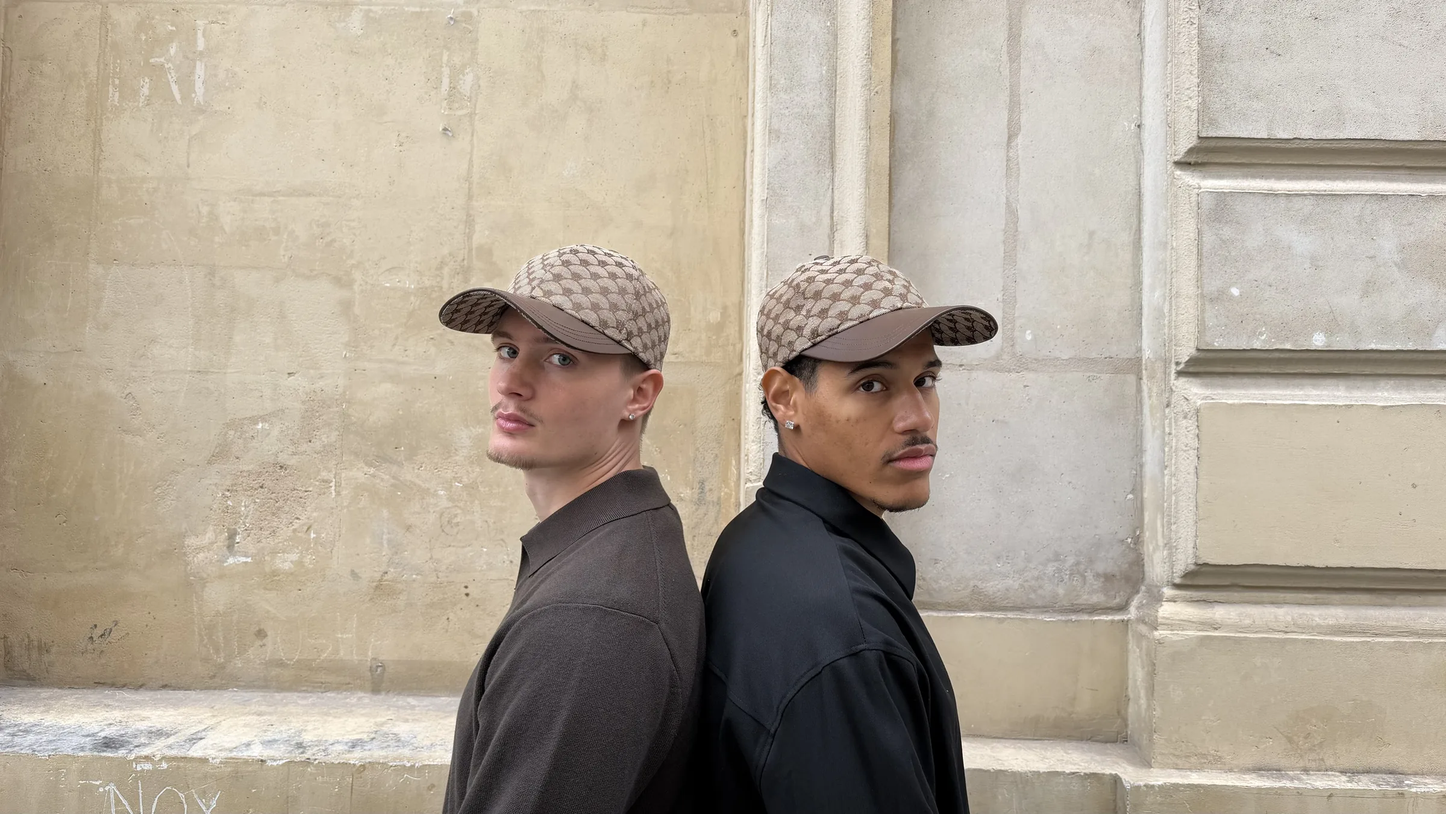
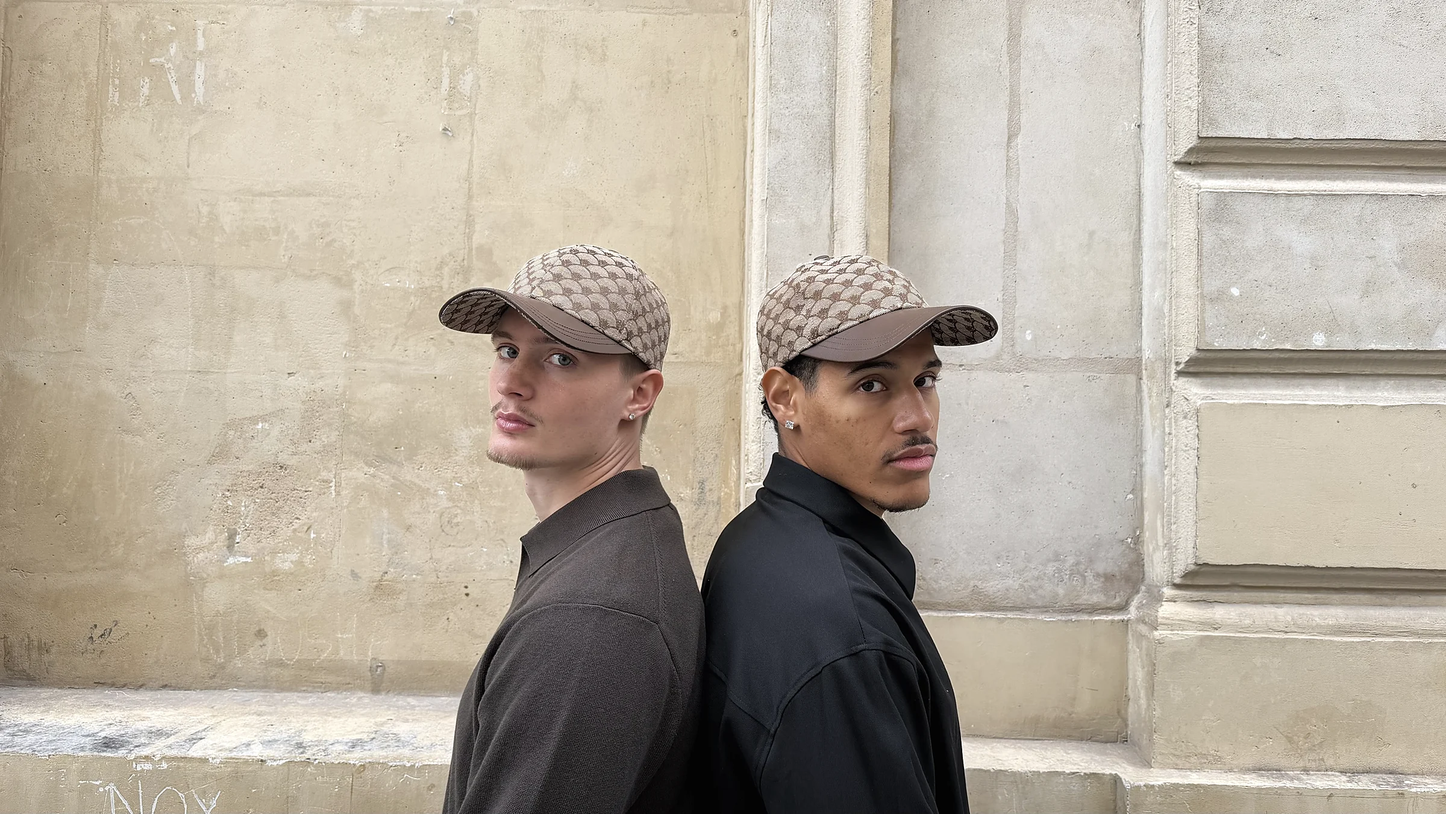
Homepage built to sell: buy buttons, sticky bar, new mobile menu
- Remove the green features ticker
- Banner gets a 'Acheter · price' button under the logo
- 'Le motif qui dure' becomes a buy box: price, stock, add to cart,
  reassurance (free shipping from 150 EUR, 14-day returns, secure payment)
- Product block comes right after the banner; story moves lower
- Mobile: sticky add-to-cart bar once the banner is out of view
- Mobile menu redesigned: serif links, featured product card,
  header stays visible with a close button
- Banner and carousel photos regraded (neutral, slightly desaturated,
  deeper blacks, crisper detail)

Claude-Session: https://claude.ai/code/session_01WXdhsVMfy8QTz9YeYXRy3E

Changed region(s): [[0.5312, 0.3109, 0.625, 0.4352], [0.375, 0.3109, 0.4375, 0.342], [0.4062, 0.3731, 0.4375, 0.4041]]

diff --git a/shopify/assets/saint.css b/shopify/assets/saint.css
@@ -105,15 +105,33 @@ nav a:hover::after,nav a.current::after{width:100%;}
 .burger span:last-child{top:23px;}
 .burger.open span:first-child{top:19px;transform:rotate(45deg);}
 .burger.open span:last-child{top:19px;transform:rotate(-45deg);}
-.mobile-nav{position:fixed;inset:0;z-index:450;background:var(--green);display:flex;flex-direction:column;justify-content:center;padding:64px;transform:translateY(-100%);transition:transform .6s cubic-bezier(.76,0,.24,1);}
-.mobile-nav.open{transform:translateY(0);}
-.mobile-nav nav ul{list-style:none;display:flex;flex-direction:column;gap:6px;}
-.mobile-nav nav a{display:block;padding:14px 0;font-family:'Jost',sans-serif;font-size:clamp(30px,9vw,44px);color:rgba(246,245,242,.7);border-bottom:1px solid rgba(246,245,242,.14);transition:color .3s;}
-.mobile-nav nav a span{display:inline-block;transition:transform .4s cubic-bezier(.16,1,.3,1);}
-.mobile-nav.open nav a span{transform:translateX(0);}
-.mobile-nav nav a:hover,.mobile-nav nav a.current{color:var(--green-text);}
-.mobile-nav nav a.current::after{content:'';display:inline-block;width:5px;height:5px;border-radius:50%;background:var(--champagne);margin-left:12px;vertical-align:middle;}
-.mobile-nav-foot{position:absolute;bottom:40px;left:64px;font-size:10px;letter-spacing:.14em;text-transform:uppercase;color:rgba(246,245,242,.4);}
+.mobile-nav{position:fixed;inset:0;z-index:45;background:var(--green);display:flex;flex-direction:column;padding:112px 28px calc(28px + env(safe-area-inset-bottom));overflow-y:auto;opacity:0;visibility:hidden;transition:opacity .45s ease,visibility 0s linear .45s;}
+.mobile-nav.open{opacity:1;visibility:visible;transition:opacity .45s ease;}
+.mnav-main ul{list-style:none;display:flex;flex-direction:column;gap:0;font-size:inherit;letter-spacing:0;text-transform:none;}
+.mnav-main a{display:flex;align-items:center;padding:14px 0;font-family:'EB Garamond',serif;font-size:36px;line-height:1.1;color:rgba(246,245,242,.62);letter-spacing:.01em;transition:color .3s;}
+.mnav-main a::after{display:none;}
+.mnav-main a span{display:inline-block;opacity:0;transform:translateY(14px);transition:opacity .5s ease,transform .6s cubic-bezier(.16,1,.3,1);}
+.mobile-nav.open .mnav-main li:nth-child(1) a span{transition-delay:.08s;}
+.mobile-nav.open .mnav-main li:nth-child(2) a span{transition-delay:.14s;}
+.mobile-nav.open .mnav-main li:nth-child(3) a span{transition-delay:.2s;}
+.mobile-nav.open .mnav-main li:nth-child(4) a span{transition-delay:.26s;}
+.mobile-nav.open .mnav-main a span{opacity:1;transform:none;}
+.mnav-main a:hover,.mnav-main a.current{color:var(--green-text);}
+.mnav-main a.current::before{content:'';width:6px;height:6px;border-radius:50%;background:var(--champagne);margin-right:14px;flex-shrink:0;}
+.mnav-product{margin-top:auto;display:flex;align-items:center;gap:14px;padding:12px;border:1px solid rgba(246,245,242,.18);background:rgba(246,245,242,.05);color:var(--green-text);}
+.mnav-product img{width:64px;height:64px;object-fit:cover;background:#fff;flex-shrink:0;}
+.mnav-product-txt{display:flex;flex-direction:column;gap:2px;min-width:0;flex:1;}
+.mnav-product-kicker{font-size:9px;letter-spacing:.16em;text-transform:uppercase;color:rgba(246,245,242,.55);}
+.mnav-product-name{font-size:13px;white-space:nowrap;overflow:hidden;text-overflow:ellipsis;}
+.mnav-product-price{font-family:'Jost',sans-serif;font-size:14px;}
+.mnav-product-cta{font-size:10px;letter-spacing:.12em;text-transform:uppercase;white-space:nowrap;border-bottom:1px solid var(--champagne);padding-bottom:2px;}
+.mnav-meta{display:flex;align-items:center;flex-wrap:wrap;gap:10px 22px;margin-top:22px;padding-top:18px;border-top:1px solid rgba(246,245,242,.14);font-size:11px;letter-spacing:.12em;text-transform:uppercase;}
+.mnav-meta a{color:rgba(246,245,242,.75);}
+.mnav-meta form{margin-left:auto;}
+/* header stays on top of the open menu, in light colours */
+html.nav-open header{background:transparent!important;border-color:transparent!important;backdrop-filter:none!important;-webkit-backdrop-filter:none!important;}
+html.nav-open header .wordmark,html.nav-open header .wordmark-sub,html.nav-open .cart-trigger-mobile{color:var(--green-text);}
+html.nav-open .burger span{background:var(--green-text);}
 @media(max-width:960px){
   .burger{display:block;}
 }
@@ -170,7 +188,10 @@ html.started .fade-up{opacity:1;transform:translateY(0);}
 .home-banner{position:relative;height:100svh;min-height:560px;overflow:hidden;background:var(--surface-2);}
 .home-banner-img{position:absolute;inset:0;width:100%;height:100%;object-fit:cover;object-position:center 30%;display:block;}
 .home-banner::after{content:"";position:absolute;inset:auto 0 0 0;height:45%;background:linear-gradient(to top,rgba(10,13,11,.55),rgba(10,13,11,0));pointer-events:none;}
-.home-banner-logo{position:absolute;left:50%;bottom:clamp(40px,8vh,88px);transform:translateX(-50%);width:clamp(150px,18vw,260px);height:auto;z-index:1;filter:drop-shadow(0 2px 14px rgba(0,0,0,.25));}
+.home-banner-overlay{position:absolute;left:0;right:0;bottom:clamp(36px,7vh,80px);z-index:1;display:flex;flex-direction:column;align-items:center;gap:22px;}
+.home-banner-logo{width:clamp(150px,18vw,260px);height:auto;filter:drop-shadow(0 2px 14px rgba(0,0,0,.25));}
+.home-banner-cta{display:inline-block;padding:13px 34px;border:1px solid rgba(246,245,242,.85);color:var(--green-text);font-size:11px;letter-spacing:.14em;text-transform:uppercase;background:rgba(10,13,11,.12);backdrop-filter:blur(6px);-webkit-backdrop-filter:blur(6px);transition:background .35s,color .35s;}
+.home-banner-cta:hover,.home-banner-cta:focus-visible{background:var(--green-text);color:var(--ink);}
 .hero--after-banner .hero-copy{padding-top:120px;}
 .hero--after-banner .hpf{inset:0;}
 .hero--after-banner .cap-hero{height:100%;object-position:50% 62%;will-change:auto;transform:none;}
@@ -181,6 +202,28 @@ html.started .fade-up{opacity:1;transform:translateY(0);}
 .signature-head h2{font-size:clamp(28px,3.4vw,40px);line-height:1.12;margin-bottom:20px;}
 .signature-visual{width:100%;aspect-ratio:3/2;max-height:100svh;overflow:hidden;}
 .signature-visual img{width:100%;height:100%;object-fit:cover;object-position:center;display:block;}
+
+/* ============ BUY BOX (home) ============ */
+.buy-box{margin-top:6px;max-width:420px;}
+.buy-line{display:flex;align-items:baseline;justify-content:space-between;gap:16px;padding:18px 0 10px;border-top:1px solid var(--line-m);}
+.buy-name{font-family:'Jost',sans-serif;font-size:17px;color:var(--ink);}
+.buy-price{font-family:'Jost',sans-serif;font-size:20px;color:var(--ink);white-space:nowrap;}
+.buy-stock{display:flex;align-items:center;gap:8px;font-size:12px;color:var(--stone);margin-bottom:24px;}
+.buy-dot{width:7px;height:7px;border-radius:50%;background:#2E8B57;box-shadow:0 0 0 3px rgba(46,139,87,.15);}
+.buy-form{display:inline-block;margin:0;}
+.buy-reassure{list-style:none;display:flex;flex-wrap:wrap;gap:6px 18px;font-size:11px;color:var(--stone);letter-spacing:.04em;}
+.buy-reassure li::before{content:"\2713";color:var(--green);margin-right:6px;}
+/* sticky buy bar (mobile, home) */
+.buy-sticky{display:none;}
+@media(max-width:960px){
+  .buy-sticky{position:fixed;left:12px;right:12px;bottom:12px;z-index:60;display:flex;align-items:center;justify-content:space-between;gap:12px;padding:10px 10px 10px 18px;background:rgba(255,255,255,.94);backdrop-filter:blur(14px);-webkit-backdrop-filter:blur(14px);border:1px solid var(--line-m);box-shadow:0 10px 30px rgba(0,0,0,.12);transform:translateY(140%);transition:transform .45s cubic-bezier(.16,1,.3,1);}
+  .buy-sticky[hidden]{display:flex;}
+  .buy-sticky.is-visible{transform:translateY(0);}
+  .buy-sticky-info{display:flex;flex-direction:column;min-width:0;}
+  .buy-sticky-name{font-size:12px;color:var(--ink);white-space:nowrap;overflow:hidden;text-overflow:ellipsis;}
+  .buy-sticky-price{font-family:'Jost',sans-serif;font-size:15px;color:var(--ink);}
+  .buy-sticky-btn{background:var(--green);color:var(--green-text);border:none;padding:13px 18px;font-size:11px;letter-spacing:.08em;text-transform:uppercase;cursor:pointer;white-space:nowrap;}
+}
 
 /* image clip reveal */
 .img-reveal{position:absolute;inset:0;height:100%;clip-path:inset(0 0 100% 0);transition:clip-path 1.4s cubic-bezier(.76,0,.24,1);}
@@ -555,6 +598,13 @@ a.contact-value:hover{color:var(--green);}
   .home-banner-img{object-position:50% 30%;}
   .hero--after-banner .hero-copy{padding-top:72px;}
   .hero--after-banner .hero-visual{min-height:0;aspect-ratio:4/5;}
+  .hero--after-banner .hero-visual{order:-1;}
+  .hero--after-banner .hero-copy{padding-top:48px;}
+  .buy-box{max-width:none;}
+  .buy-box .hero-actions{flex-direction:column;align-items:stretch;gap:16px;}
+  .buy-box .buy-form,.buy-box .btn-add-cart{display:block;width:100%;}
+  .buy-box .btn-ghost{align-self:center;}
+  html.nav-open .buy-sticky{transform:translateY(140%);}
   .signature-head{padding:96px 0 48px;}
   .signature-visual{aspect-ratio:4/3;}
   .editorial-break{aspect-ratio:4/3;}
@@ -563,8 +613,6 @@ a.contact-value:hover{color:var(--green);}
   .contact-form-grid{grid-template-columns:1fr;gap:20px;}
   .contact-value{text-align:left;}
   .mat-copy p{font-size:14px;}
-  .mobile-nav{padding:48px 32px;}
-  .mobile-nav-foot{left:32px;}
   .story{grid-template-columns:1fr;gap:44px;padding-top:100px;padding-bottom:80px;}
   .subhead{padding-top:140px;padding-bottom:60px;}
   .stats-band{grid-template-columns:1fr;gap:0;}

diff --git a/shopify/assets/saint.js b/shopify/assets/saint.js
@@ -32,6 +32,7 @@ if(burger && mobileNav){
     burger.setAttribute('aria-expanded','false');
     mobileNav.classList.remove('open');
     mobileNav.setAttribute('aria-hidden','true');
+    document.documentElement.classList.remove('nav-open');
     document.documentElement.style.overflow='';
   };
   burger.addEventListener('click',()=>{
@@ -40,6 +41,7 @@ if(burger && mobileNav){
     burger.setAttribute('aria-expanded',String(willOpen));
     mobileNav.classList.toggle('open',willOpen);
     mobileNav.setAttribute('aria-hidden',String(!willOpen));
+    document.documentElement.classList.toggle('nav-open',willOpen);
     document.documentElement.style.overflow=willOpen?'hidden':'';
   });
   mobileNav.querySelectorAll('a').forEach(a=>a.addEventListener('click',closeMobileNav));
@@ -443,4 +445,17 @@ document.querySelectorAll('.p-tabs-nav').forEach(nav=>{
   if(!subject || subject.value) return;
   const preset=new URLSearchParams(location.search).get('objet');
   if(preset) subject.value=preset.slice(0,80);
+})();
+
+/* ===== HOME: sticky buy bar on mobile, once the banner has scrolled away ===== */
+(function(){
+  const bar=document.getElementById('buy-sticky');
+  const banner=document.querySelector('.home-banner');
+  const footer=document.querySelector('footer');
+  if(!bar || !banner || !('IntersectionObserver' in window)) return;
+  bar.hidden=false;
+  let bannerVisible=true, footerVisible=false;
+  const update=()=>bar.classList.toggle('is-visible',!bannerVisible && !footerVisible);
+  new IntersectionObserver(([e])=>{bannerVisible=e.isIntersecting;update();},{threshold:0}).observe(banner);
+  if(footer) new IntersectionObserver(([e])=>{footerVisible=e.isIntersecting;update();},{threshold:0}).observe(footer);
 })();
